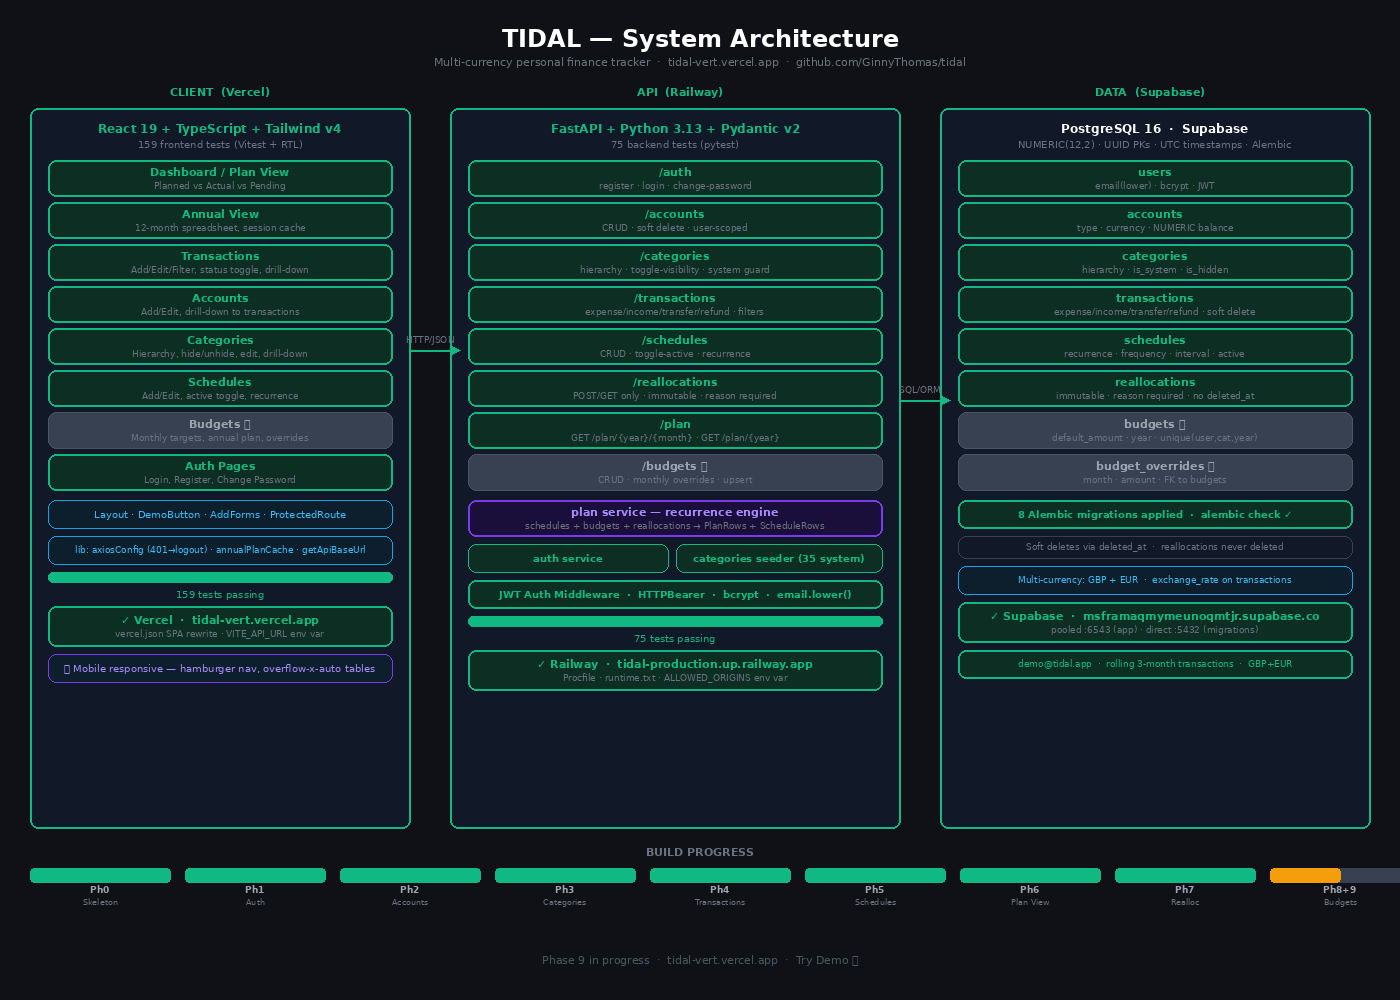
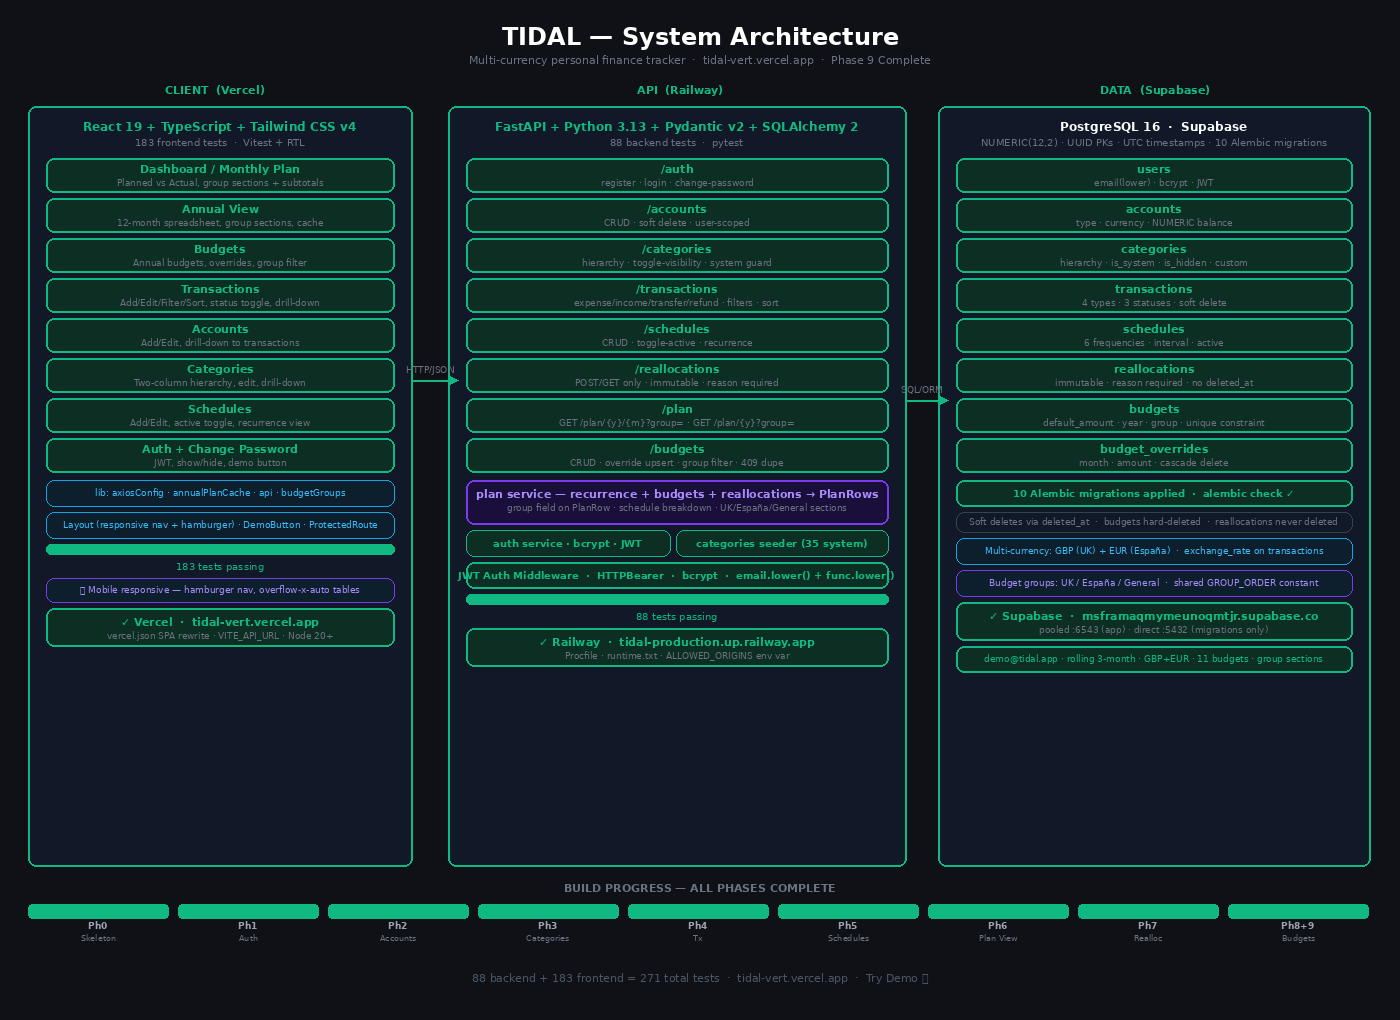
update CLAUDE.md and architecture.png

Changed region(s): [[0.0307, 0.031, 0.9829, 0.837], [0.0, 0.837, 1.0, 0.93], [0.2764, 0.806, 0.3379, 0.837]]

diff --git a/CLAUDE.md b/CLAUDE.md
@@ -65,11 +65,11 @@ living spreadsheet. Solves real problems with existing apps like Spendee.
 2. Recurring merchants are repeatedly mis-categorised
 3. Budget and transaction views are separated — hard to see the full picture
 4. No structured way to track budget reallocation decisions
-5. Variable spending targets (groceries, eating out) can't be set without schedules
+5. Variable spending targets can't be set without creating fake schedules
 
 **The primary view** is a Monthly Plan View — a single screen showing every
-budget category with planned vs actual vs remaining. Transactions are
-accessible inline. Nothing important requires navigating away.
+budget category with planned vs actual vs remaining, grouped by budget group
+(UK / España / General). Transactions are accessible inline.
 
 **Key principle:** Plan first, track second. Schedules define fixed recurring
 transactions. Budgets define variable spending targets. Transactions confirm
@@ -104,43 +104,50 @@ reality. The gap between them is where insight lives.
 
 ## Current Phase
 
-**Phase 9 — Budgets (in progress)**
+**Phase 9 — Budgets (complete)**
 
-All previous phases complete:
+All phases complete:
 - ✅ Phase 0: Walking skeleton
-- ✅ Phase 1: Authentication (register, login, JWT, bcrypt, Alembic)
+- ✅ Phase 1: Authentication (register, login, JWT, bcrypt, change password)
 - ✅ Phase 2: Accounts (CRUD, soft delete, edit, drill-down to transactions)
 - ✅ Phase 3: Categories (hierarchical, system seeding, hide/unhide, edit, drill-down)
-- ✅ Phase 4: Transactions (expense/income/transfer/refund, edit, status toggle)
+- ✅ Phase 4: Transactions (expense/income/transfer/refund, edit, status toggle, sort)
 - ✅ Phase 5: Schedules (recurrence engine, edit, active toggle)
-- ✅ Phase 6: Monthly Plan View (plan service, schedule breakdown, expand/collapse)
+- ✅ Phase 6: Monthly Plan View (plan service, schedule breakdown, expand/collapse,
+               budget group sections with subtotals)
 - ✅ Phase 7: Reallocation (immutable audit trail, plan integration)
 - ✅ Phase 8: Styling & Polish (ocean theme, mobile responsive, demo account,
                annual view, category drill-down, multi-currency demo)
-- 🔄 Phase 9: Budgets (variable spending targets per category per month/year)
+- ✅ Phase 9: Budgets (annual budgets with monthly overrides, budget groups,
+               Budgets page, Annual view group sections)
+
+Next: Phase 10 features (see bottom of file)
 
 ---
 
 ## What's Built
 
-**Backend — 75 tests passing:**
-- `app/models/` — User, Account, Category, Transaction, Schedule, Reallocation
+**Backend — 88 tests passing:**
+- `app/models/` — User, Account, Category, Transaction, Schedule, Reallocation,
+                   Budget, BudgetOverride
 - `app/schemas/` — Pydantic v2 schemas for all entities
 - `app/services/auth.py` — bcrypt hashing, JWT creation, get_current_user
 - `app/services/categories.py` — seed_default_categories (35 categories, atomic)
-- `app/services/plan.py` — recurrence engine, plan assembly, reallocation adjustment
+- `app/services/plan.py` — recurrence engine, plan assembly, budget integration,
+                            reallocation adjustment, group field on PlanRow
 - `app/routers/auth.py` — register, login, change-password
 - `app/routers/accounts.py` — full CRUD, soft delete, user-scoped
 - `app/routers/categories.py` — full CRUD, toggle-visibility, system protection
-- `app/routers/transactions.py` — expense/income/transfer/refund, status/category filter
+- `app/routers/transactions.py` — expense/income/transfer/refund, category/status filter
 - `app/routers/schedules.py` — full CRUD, toggle-active, recurrence
 - `app/routers/reallocations.py` — POST/GET only, immutable, reason required
-- `app/routers/plan.py` — GET /api/v1/plan/{year}/{month} and GET /api/v1/plan/{year}
-- `migrations/` — 8 Alembic migrations applied to Supabase
-- `scripts/seed_demo.py` — rolling demo data, multi-currency, idempotent
+- `app/routers/plan.py` — GET /plan/{year}/{month}?group= and GET /plan/{year}?group=
+- `app/routers/budgets.py` — CRUD + override upsert/delete, group filter
+- `migrations/` — 10 Alembic migrations applied to Supabase
+- `scripts/seed_demo.py` — rolling demo data, multi-currency GBP+EUR, budget groups
 - `scripts/refresh_demo.sh` — convenience wrapper for production seeding
 
-**Frontend — 159 tests passing:**
+**Frontend — 183 tests passing:**
 - `LoginPage.tsx` — JWT auth, show/hide password, Try Demo button
 - `RegisterPage.tsx` — register + auto-login, password confirmation
 - `ProtectedRoute.tsx` — redirects to /login if no token
@@ -148,21 +155,25 @@ All previous phases complete:
 - `AddAccountForm.tsx` — create/edit account
 - `CategoriesPage.tsx` — two-column hierarchy, hide/unhide, edit, drill-down
 - `AddCategoryForm.tsx` — create/edit with colour picker and emoji icon grid
-- `TransactionsPage.tsx` — list, add, edit, status toggle, multi-filter, drill-down
+- `TransactionsPage.tsx` — list, add, edit, status toggle, multi-filter, sort by all columns
 - `AddTransactionForm.tsx` — create/edit expense/income/refund
 - `AddTransferForm.tsx` — create transfer between accounts
 - `SchedulesPage.tsx` — list, add, edit, active toggle, show inactive
 - `AddScheduleForm.tsx` — create/edit with frequency-conditional fields
-- `MonthlyPlanView.tsx` — primary dashboard, schedule breakdown, expand/collapse
-- `AnnualView.tsx` — 12-month spreadsheet, year navigation, session cache
+- `BudgetsPage.tsx` — annual budgets with group sections, overrides inline
+- `AddBudgetForm.tsx` — create/edit budget with group selector
+- `BudgetOverrideForm.tsx` — 12-month grid for month-specific overrides
+- `MonthlyPlanView.tsx` — primary dashboard, schedule breakdown, group sections + subtotals
+- `AnnualView.tsx` — 12-month spreadsheet, group sections + subtotals, session cache
 - `ChangePasswordPage.tsx` — change password with show/hide toggles
 - `DemoButton.tsx` — one-click demo login
 - `Layout.tsx` — responsive nav, hamburger menu, logout
 - `lib/axiosConfig.ts` — global 401 interceptor → auto-logout
-- `lib/annualPlanCache.ts` — session cache for annual plan (invalidated on mutations)
+- `lib/annualPlanCache.ts` — session cache invalidated on data mutations
 - `lib/api.ts` — getApiBaseUrl() helper
+- `lib/budgetGroups.ts` — shared GROUP_ORDER constant ['UK', 'España', 'General']
 - Routes: /login, /register, /dashboard, /plan, /transactions, /accounts,
-          /categories, /schedules, /annual, /change-password
+          /categories, /schedules, /budgets, /annual, /change-password
 
 ---
 
@@ -181,6 +192,10 @@ All previous phases complete:
 **Component classes (index.css):**
 `.btn-primary`, `.btn-secondary`, `.btn-ghost`, `.input-base`, `.label-base`,
 `.card`, `.card-hover`, `.badge`, `.badge-sky`, `.badge-teal`, `.page-container`
+
+**Budget group sections:**
+Shared constant in `lib/budgetGroups.ts`: `GROUP_ORDER = ['UK', 'España', 'General']`
+Used in MonthlyPlanView, AnnualView, BudgetsPage for consistent section ordering.
 
 ---
 
@@ -223,15 +238,16 @@ All previous phases complete:
 
 ---
 
-## Budget Rules (Phase 9)
+## Budget Rules
 
-- One budget per category per year (unique constraint)
+- One budget per category per year (unique constraint: user_id, category_id, year)
 - `default_amount` applies to all months unless overridden
-- `budget_overrides` table stores month-specific amounts
+- `budget_overrides` table stores month-specific amounts (upsert semantics)
 - Budget amounts and schedule amounts are additive per category
-  (schedules = fixed transactions, budgets = variable spending targets)
 - Budgets can be hard-deleted (unlike transactions which are soft-deleted)
-- Plan view: for each month, uses override amount if exists, else default_amount
+- Optional `group` field (max 50 chars) — e.g. "UK", "España"
+- Plan view: filter by group shows only that group's budget contributions
+- Group filter applies to budgets only — schedules and transactions are NOT filtered
 
 ---
 
@@ -244,16 +260,13 @@ For a given month, planned = schedule amounts + budget amounts per category:
 4. Actual: sum of cleared+reconciled transactions per category
 5. Pending: sum of pending transactions per category
 6. Remaining: planned - actual
+7. Group: from budget's group field (for section rendering in UI)
 
 Note: schedule breakdown rows show pre-reallocation amounts — their sum
 may differ from the final planned total when reallocations have been applied.
 
----
-
-## Authentication Strategy
-
-**Current:** Email/password only, JWT Bearer tokens.
-**Future (Phase 10):** Google OAuth via authlib. Do not add until requested.
+When group filter is active: only budgets matching that group contribute to
+planned totals. Schedules and transactions are always included regardless.
 
 ---
 
@@ -262,20 +275,24 @@ may differ from the final planned total when reallocations have been applied.
 - Email: demo@tidal.app / Password: TidalDemo2026!
 - 3 accounts: Nationwide Current (GBP), Nationwide Savings (GBP), Santander España (EUR)
 - 14 schedules: monthly GBP + EUR, annual (Claude.ai Pro, Christmas), quarterly (Massage)
+- 11 budgets: 8 UK/GBP group, 3 España/EUR group, with monthly overrides
 - Rolling transactions: always covers 3 months back + current month
+- Multi-currency: GBP transactions on Nationwide, EUR on Santander España
+- Region-specific categories: Groceries UK/España, Eating Out UK/España, Rent UK/España
 - To refresh: `./scripts/refresh_demo.sh` (reads DATABASE_URL from .env)
-- Multi-currency demo: Groceries, Eating Out, Rent/Mortgage appear in both GBP and EUR
 
 ---
 
 ## Known Issues / Tech Debt
 
 - O(n²) childrenOf() in CategoriesPage — fix with useMemo + Map
-- Annual view makes 12 separate plan API calls — optimise with single-pass service
+- Annual view makes 12 × N plan API calls — optimise with single-pass service (Phase 10)
 - React Query not wired up — using plain useEffect + useState
 - Schedule breakdown in plan view shows pre-reallocation amounts
 - No per-schedule actual spend tracking (transactions tagged to categories not schedules)
 - sessionStorage for annual cache (currently in-memory, clears on refresh)
+- Currency consolidation: EUR + GBP amounts are additive in plan view without conversion
+- Demo data has some duplicate generic categories alongside UK/España variants
 
 ---
 
@@ -291,7 +308,9 @@ may differ from the final planned total when reallocations have been applied.
 - Adding NOT NULL columns to existing tables requires server_default in migration
 - ALLOWED_ORIGINS in Railway must match Vercel URL exactly (no trailing slash)
 - Run migrations against Supabase direct URL (port 5432), not pooled (port 6543)
-- date field in schemas must use `date as date_` alias to avoid Pydantic v2 shadowing
+- `date` field in schemas must use `date as date_` alias to avoid Pydantic v2 shadowing
+- `group` is a reserved word in PostgreSQL — always quote it as `"group"` in raw SQL
+- GROUP_ORDER constant lives in `frontend/src/lib/budgetGroups.ts` — import from there
 
 ---
 
@@ -333,22 +352,25 @@ tidal/
 │   │   ├── main.py           FastAPI entry point, router registration
 │   │   ├── config.py         pydantic-settings, ALLOWED_ORIGINS
 │   │   ├── database.py       SQLAlchemy engine, SessionLocal, get_db
-│   │   ├── models/           SQLAlchemy ORM models
+│   │   ├── models/           User, Account, Category, Transaction, Schedule,
+│   │   │                     Reallocation, Budget, BudgetOverride
 │   │   ├── schemas/          Pydantic request/response shapes
-│   │   ├── routers/          API endpoint handlers
+│   │   ├── routers/          auth, accounts, categories, transactions, schedules,
+│   │   │                     reallocations, plan, budgets
 │   │   └── services/         auth, categories seeding, plan assembly
-│   ├── migrations/           Alembic migration files
+│   ├── migrations/           10 Alembic migration files
 │   ├── scripts/
 │   │   ├── seed_demo.py      idempotent demo data seeder
 │   │   └── refresh_demo.sh   convenience wrapper for production seeding
 │   ├── Procfile              Railway start command
 │   ├── runtime.txt           Python version for Railway
-│   └── tests/                pytest test suite
+│   └── tests/                pytest test suite (88 tests)
 ├── frontend/
 │   ├── src/
-│   │   ├── pages/            full page components
+│   │   ├── pages/            all page components
 │   │   ├── components/       reusable UI components
-│   │   └── lib/              api.ts, axiosConfig.ts, annualPlanCache.ts
+│   │   └── lib/              api.ts, axiosConfig.ts, annualPlanCache.ts,
+│   │                         budgetGroups.ts
 │   ├── vercel.json           SPA rewrite for Vercel
 │   └── .env.example          VITE_API_URL template
 └── docs/
@@ -360,12 +382,12 @@ tidal/
 
 ---
 
-## Phase 10 — Planned Features (Post-MVP)
+## Phase 10 — Planned Features
 
-### Budgets UI (Phase 9 frontend — after backend complete)
-- Budget page: set default monthly amount per category for a year
-- Inline editing on Annual View — click a cell to set/override that month
-- Annual View becomes the primary planning spreadsheet
+### Currency Consolidation
+The `exchange_rate` column exists on every transaction — data model is ready.
+Needs: base currency per user, conversion logic in plan service, consolidated
+totals in plan/annual views. "Net worth in one currency" view.
 
 ### Interest Promotion Tracker
 Track 0% interest promotions (Paypal BNPL, credit card balance transfers).
@@ -373,10 +395,9 @@ Track 0% interest promotions (Paypal BNPL, credit card balance transfers).
 minimum_monthly_payment, is_active.
 Features: days remaining, required monthly payment, warning < 60 days.
 
-### Currency Consolidation
-The `exchange_rate` column exists on every transaction — the data model is ready.
-Needs: base currency per user, conversion logic in plan service, consolidated
-totals in plan/annual views. "Net worth in one currency" view.
+### Per-Schedule Actual Spend
+Link transactions to schedules via schedule_id (column exists, FK wired).
+Would enable "Netflix planned £15.99, actual £15.99" in plan view breakdown.
 
 ### Open Banking / Bank Sync
 TrueLayer or Plaid for automatic transaction import.
@@ -388,10 +409,9 @@ authlib integration. Users table gets optional google_id column.
 ### Tags
 Cross-cutting transaction labels via TagAssignment join table.
 
-### Per-Schedule Actual Spend
-Link transactions to schedules via schedule_id (column exists, FK not yet used).
-Would enable "Netflix planned £15.99, actual £15.99" in the plan view breakdown.
+### Annual View Performance
+Replace 12 × N plan API calls with single-pass annual service.
 
 ---
 
-*Last updated: Phase 9 starting — April 2026*
+*Last updated: Phase 9 complete — April 2026*
